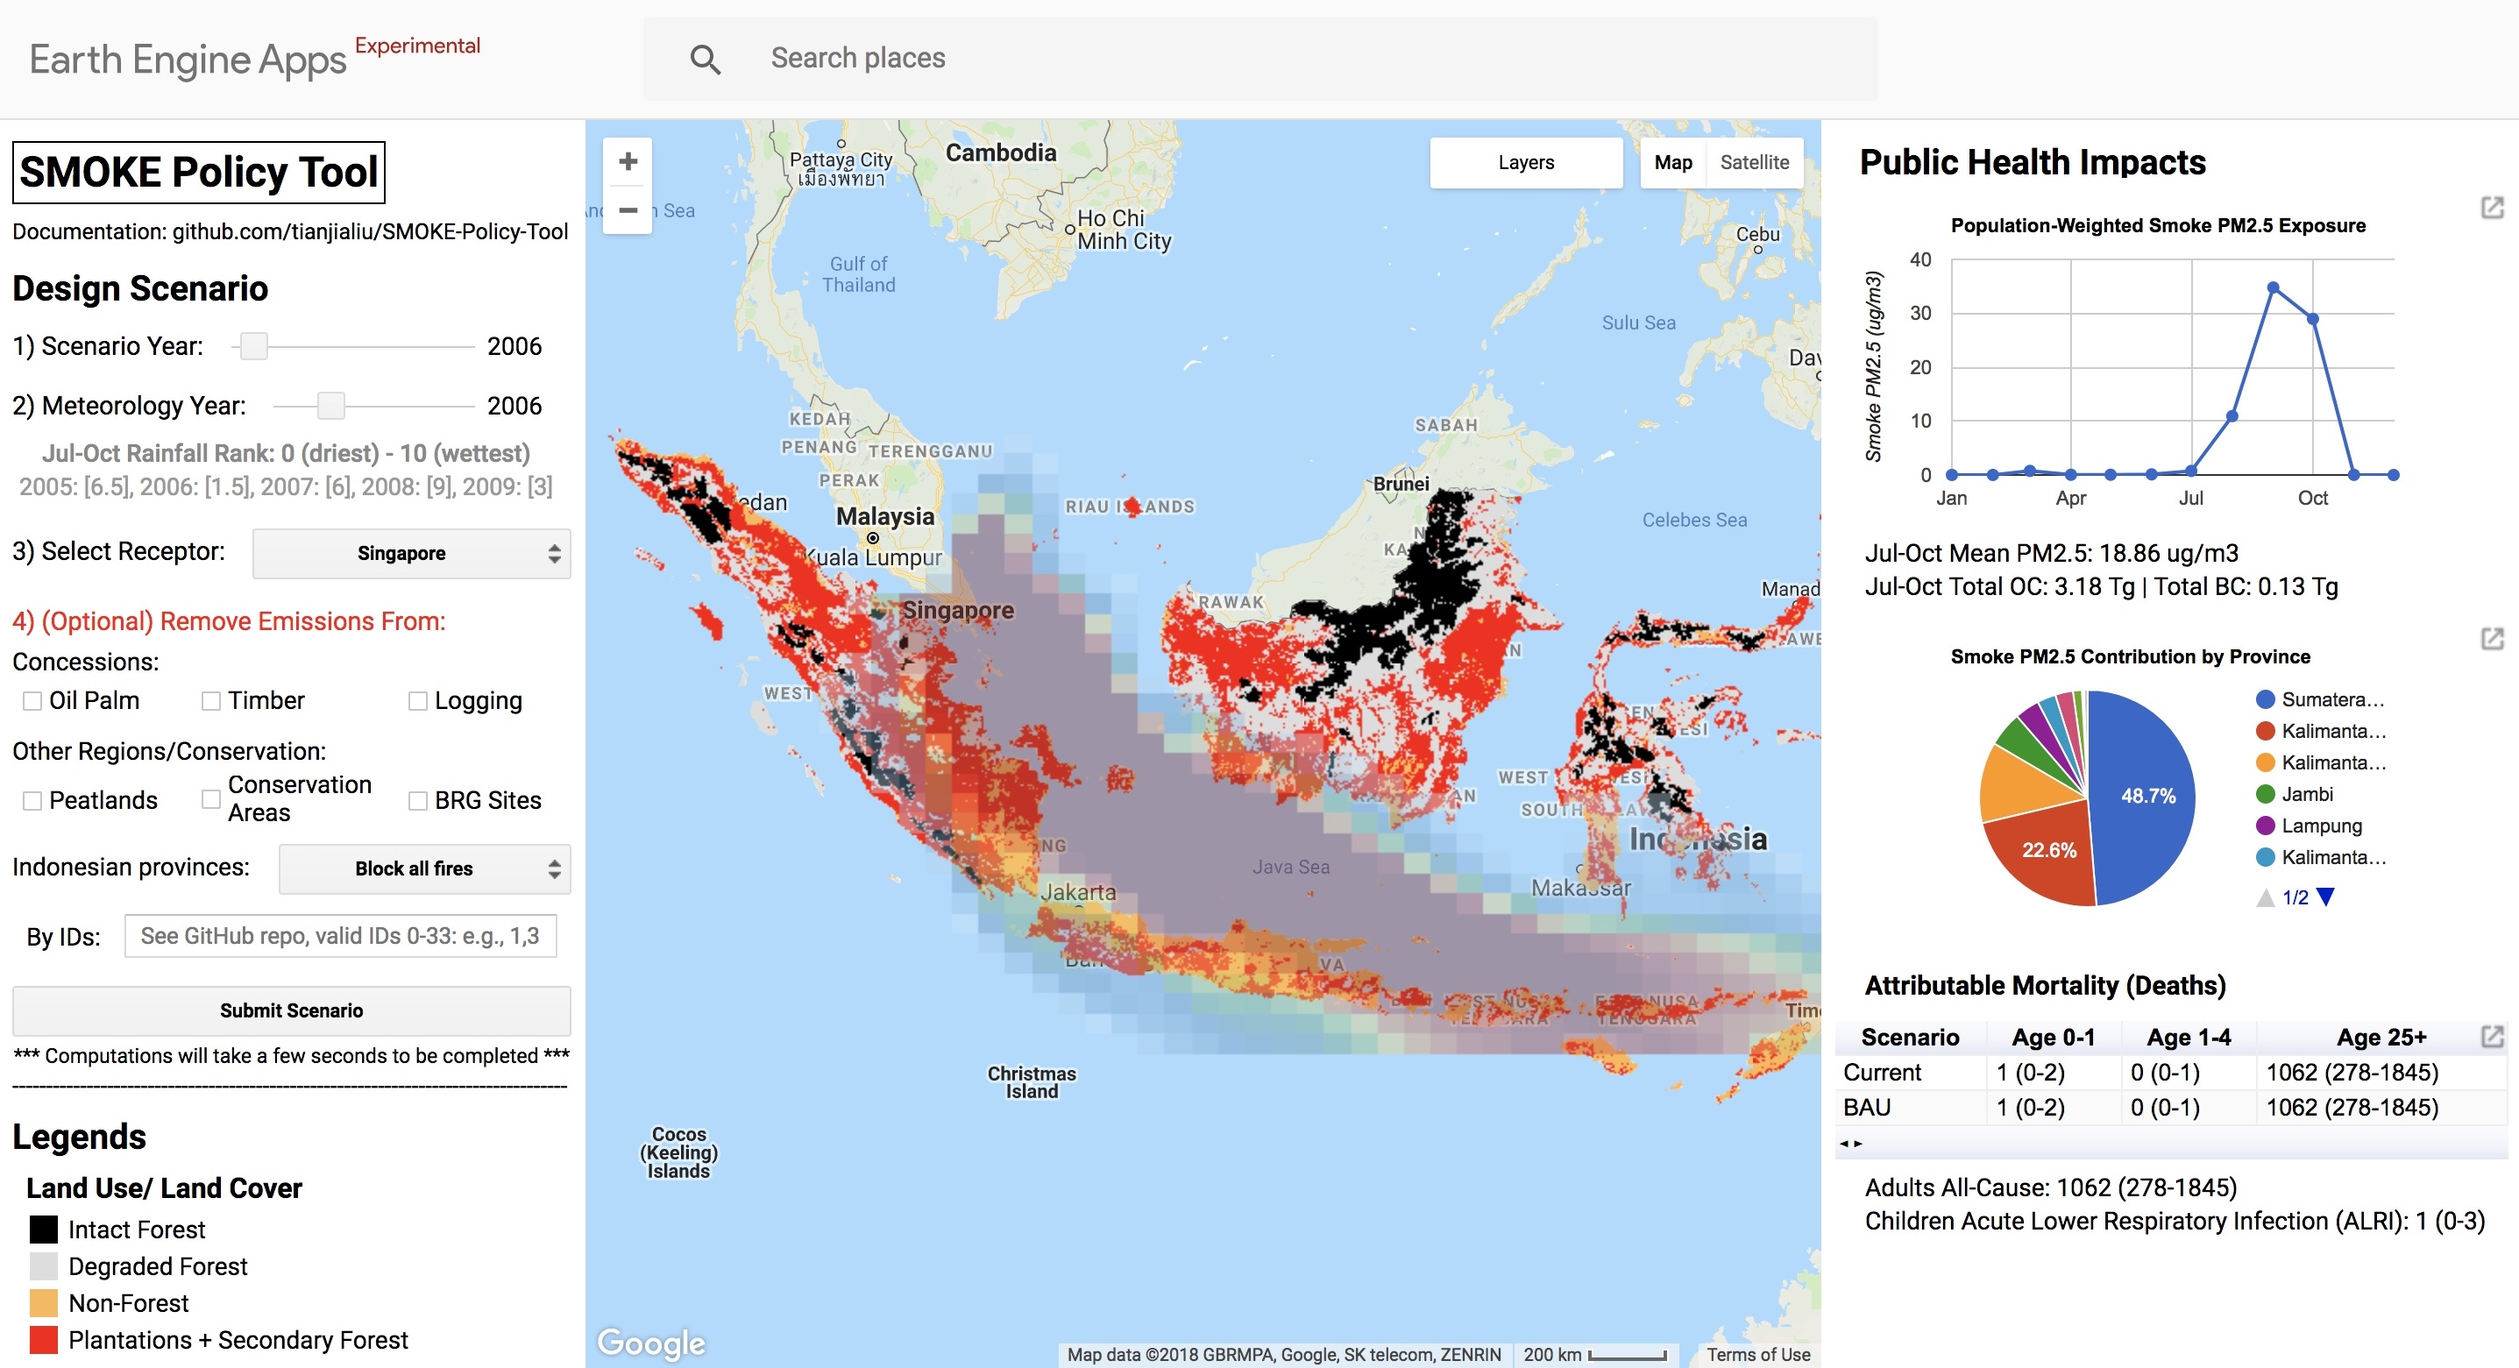
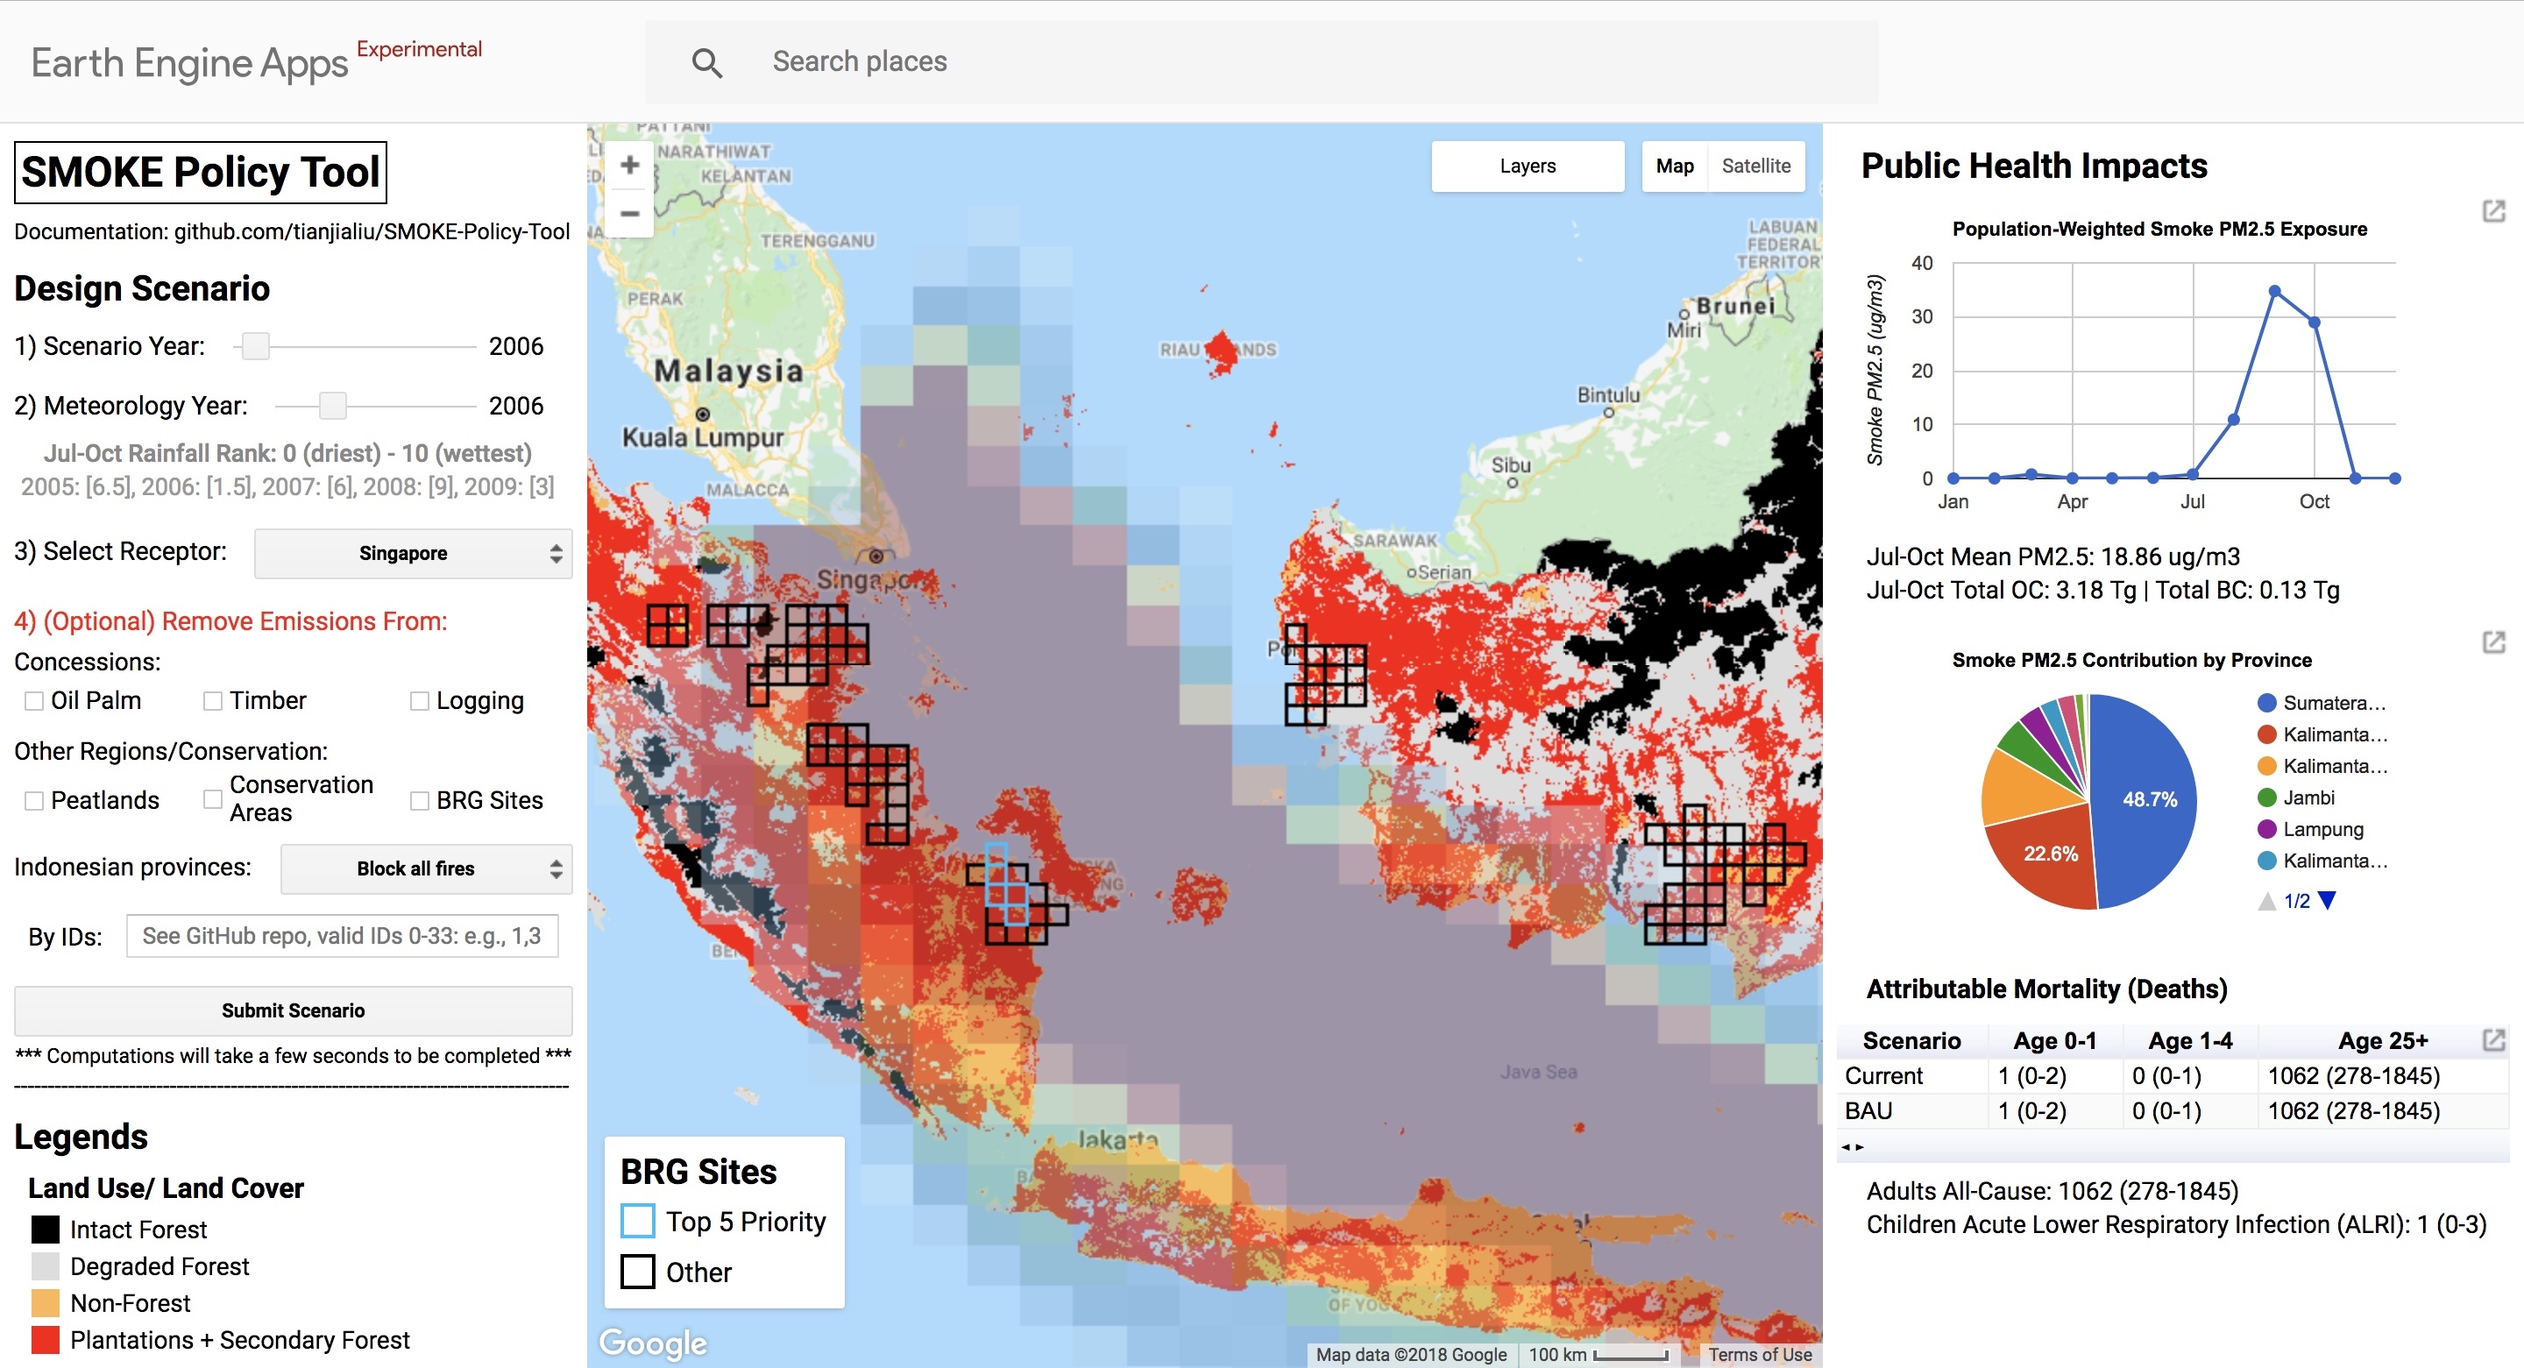
add top 5 priority BRG sites calculation, update PM color palette

diff --git a/apps/SMOKEPolicyTool.js b/apps/SMOKEPolicyTool.js
@@ -6,7 +6,7 @@
 
 // Documentation: https://github.com/tianjialiu/SMOKE-Policy-Tool
 // Author: Tianjia Liu
-// Last updated: August 19, 2018
+// Last updated: August 20, 2018
 
 // Purpose: model and project the impact of Indonesian fires
 // on public health in Equatorial Asia for 2005-2029 based on
@@ -192,8 +192,7 @@ var emiRateLULCtr = ee.ImageCollection(assetsFolder + 'Cocktail_LULC/emiRateLULC
 var areaLULCtr = ee.ImageCollection(assetsFolder + 'Cocktail_LULC/areaLULCtr_m2');
 var gcArea = ee.Image(assetsFolder + 'area_m2/GC_grid');
 var gfedArea = ee.Image(assetsFolder + 'area_m2/GFEDv4s_grid');
-var gfedGrid = ee.Image(assetsFolder + 'IDN_adm/IDN_gfedGrid');
-
+var brgGrid = ee.FeatureCollection(assetsFolder + 'IDN_conservation/BRG_sites_gfedGrid');
 var outputRegion = ee.Geometry.Rectangle([95,-11,141,6],'EPSG:4326',false);
 var adjointFolder = assetsFolder + 'GC_adjoint_sensitivities/';
 var adjointFolder_ds = assetsFolder + 'GC_adjoint_sensitivities_0p25deg/';
@@ -394,8 +393,22 @@ var getPMmap = function(inputYear,metYear,receptor,inMask) {
     .reproject({crs: crsLatLon, crsTransform: gfed_gridRes}));
 };
 
-var PMRamp = ['#FFFFFF','#F7F7F7','#D9D9D9','#BDBDBD',
-  '#969696','#636363','#252525','#000000'];
+var PMRamp = ['#FFFFFF','#FBC127','#F67D15','#D44842',
+  '#9F2963','#65146E','#280B54','#000000'];
+
+// BRG Sites: Top 5 priority grid cells for reducing emissions
+var getBRGmap = function(PMmap) {
+  var PMbrg = PMmap.reduceRegions({
+    collection: brgGrid,
+    reducer: 'max',
+    crs: crsLatLon,
+    crsTransform: gfed_gridRes
+  }).sort('max',false);
+  
+  return ee.Image().byte().rename('BRG_Sites')
+    .paint(ee.FeatureCollection(PMbrg.toList(100,5)), 0, 2)
+    .paint(ee.FeatureCollection(PMbrg.toList(5,0)), 1, 2);
+};
 
 // OC + BC Emissions, Jul-Oct average (ug/m2/s)
 var getEmissMap = function(inputYear,metYear,receptor,inMask) {
@@ -670,7 +683,7 @@ var calcAllMortality = function(PMts, receptor, scenario) {
   var age1_4 = formatCI(mortality[3][1],mortality[3][0],mortality[3][2]);
   var age25 = formatCI(mortality[4][1],mortality[4][0],mortality[4][2]);
 
-  return ee.Feature(null, {'Scenario': scenario,'Age 0-1': age0_1, 'Age 1-4': age1_4,
+  return ee.Feature(null, {'Scenario': scenario, 'Age 0-1': age0_1, 'Age 1-4': age1_4,
     'Age 0-4': age0_4, 'Age 25+': age25});
 };
 
@@ -899,6 +912,40 @@ var legendPanel = function(controlPanel) {
     mortalityColRamp, 0, 10, 'people in thousands', 18.975, 293);
 };
 
+var brgLegend = function() {
+  var colPal = ['#00BFFF', '#000000'];
+  var labels = ['Top 5 Priority', 'Other'];
+  
+  var brgLegendPanel = ui.Panel({
+    style: {
+      padding: '2px 10px 2px 9px',
+      position: 'bottom-left'
+    }
+  });
+   
+  brgLegendPanel.add(ui.Label('BRG Sites', {fontWeight: 'bold', fontSize: '20px', margin: '6px 0 6px 0'}));
+  
+  var makeRow = function(colPal, labels) {
+    var colorBox = ui.Label({
+      style: {
+        border: 'solid 2px ' + colPal,
+        padding: '8px',
+        margin: '0px 0 9px 0',
+        fontSize: '16px',
+      }
+    });
+
+    var description = ui.Label({value: labels, style: {margin: '2px 1px 4px 6px', fontSize: '15.5px'}});
+    return ui.Panel({widgets: [colorBox, description], layout: ui.Panel.Layout.Flow('horizontal')});
+  };
+  
+  for (var i = 0; i < labels.length; i++) {
+    brgLegendPanel.add(makeRow(colPal[i], labels[i]));
+  }
+  
+  return brgLegendPanel;
+};
+
 // -----------
 // Plot Panel
 // -----------
@@ -983,7 +1030,7 @@ submitButton.onClick(function() {
   var PMExposureMap = getPMmap(inputYear,metYear,receptor,inMask);
   var emissMap = getEmissMap(inputYear,metYear,receptor,inMask);
   
-  map.clear(); map.setCenter(110,-2,5);
+  map.clear(); map.setCenter(108,-1,6);
   map.addLayer(lulcMapTS1.selfMask(),lulc_pal,'LULC Classification ' + lulcMapTS1.get('timestep').getInfo());
   map.addLayer(lulcMapTS2.selfMask(),lulc_pal,'LULC Classification ' + lulcMapTS2.get('timestep').getInfo(), false);
   map.addLayer(stableTrans.selfMask(),lulcTrans_pal,'LULC Stable/Transitions', false);
@@ -999,6 +1046,8 @@ submitButton.onClick(function() {
     {palette: mortalityColRamp, max: 10},'Baseline Mortality 2005', false);
   map.addLayer(inMask.mean(),{palette: ['#000000','#FFFFFF'],
     min: 0, max: 1, opacity: 0.4},'Design Scenario Mask', false);
+  map.addLayer(getBRGmap(PMExposureMap), {palette: '000000,00BFFF', max: 1}, 'BRG Sites');
+  map.add(brgLegend());
   map.setControlVisibility({fullscreenControl: false});
 
   // Display Charts:

diff --git a/gee_public/Modules/plotParams.js b/gee_public/Modules/plotParams.js
@@ -26,7 +26,7 @@ exports.yearPanel = function() {
     {margin: '1px 0px 0px 25px', color: '#888', fontSize: '13.8px', fontWeight:'410'});
   var metYearRanking = ui.Label('2005: [6.5], 2006: [1.5], 2007: [6], 2008: [9], 2009: [3]',
     {margin: '3px 0px 8px 12px', color: '#999', fontSize: '13.5px'});
-    
+  
   return ui.Panel([
       policyToolLabel, githubRepoLabel, inputYearSectionLabel,
       ui.Panel([inputYearLabel, inputYearSlider], ui.Panel.Layout.Flow('horizontal'), {stretch: 'horizontal'}), //
@@ -207,7 +207,7 @@ exports.legendPanel = function(controlPanel) {
     smokeHealth.mortalityColRamp, 0, 10, 'people in thousands', 18.975, 293);
 };
 
-exports.discreteLegendMap = function(title, labels, colPal) {
+exports.brgLegend = function() {
   var discreteLegendPanel = ui.Panel({
     style: {
       padding: '0 9px 2px 9px',
@@ -216,6 +216,71 @@ exports.discreteLegendMap = function(title, labels, colPal) {
   });
    
   var legendTitle = ui.Label(title, {fontWeight: 'bold', fontSize: '18px', margin: '6px 0 4px 0'});
+  discreteLegendPanel.add(legendTitle);
+  
+  var makeRow = function(colPal, labels) {
+    var colorBox = ui.Label({
+      style: {
+        border: '1px solid ' + colPal,
+        padding: '8px',
+        margin: '0 0 6px 0',
+        fontSize: '14px',
+      }
+    });
+
+    var description = ui.Label({value: labels, style: {margin: '0 0 4px 6px', fontSize: '13.5px'}});
+    return ui.Panel({widgets: [colorBox, description], layout: ui.Panel.Layout.Flow('horizontal')});
+  };
+  
+  for (var i = 0; i < labels.length; i++) {
+    discreteLegendPanel.add(makeRow(colPal[i], labels[i]));
+  }
+  return discreteLegendPanel;
+};
+
+exports.brgLegend = function() {
+  var colPal = ['#00BFFF', '#000000'];
+  var labels = ['Top 5 Priority', 'Other'];
+  
+  var brgLegendPanel = ui.Panel({
+    style: {
+      padding: '2px 10px 2px 9px',
+      position: 'bottom-left'
+    }
+  });
+   
+  brgLegendPanel.add(ui.Label('BRG Sites', {fontWeight: 'bold', fontSize: '20px', margin: '6px 0 6px 0'}));
+  
+  var makeRow = function(colPal, labels) {
+    var colorBox = ui.Label({
+      style: {
+        border: 'solid 2px ' + colPal,
+        padding: '8px',
+        margin: '0px 0 9px 0',
+        fontSize: '16px',
+      }
+    });
+
+    var description = ui.Label({value: labels, style: {margin: '2px 1px 4px 6px', fontSize: '15.5px'}});
+    return ui.Panel({widgets: [colorBox, description], layout: ui.Panel.Layout.Flow('horizontal')});
+  };
+  
+  for (var i = 0; i < labels.length; i++) {
+    brgLegendPanel.add(makeRow(colPal[i], labels[i]));
+  }
+  
+  return brgLegendPanel;
+};
+
+exports.discreteLegendMap = function(title, labels, colPal) {
+  var discreteLegendPanel = ui.Panel({
+    style: {
+      padding: '0 9px 2px 9px',
+      position: 'bottom-left'
+    }
+  });
+   
+  var legendTitle = ui.Label(title, {fontWeight: 'bold', fontSize: '18.5px', margin: '6px 0 4px 0'});
   discreteLegendPanel.add(legendTitle);
   
   var makeRow = function(colPal, labels) {

diff --git a/gee_public/UI_SMOKEPolicyTool.js b/gee_public/UI_SMOKEPolicyTool.js
@@ -6,7 +6,7 @@
 /*
 // Documentation: https://github.com/tianjialiu/SMOKE-Policy-Tool
 // Author: Tianjia Liu
-// Last updated: August 19, 2018
+// Last updated: August 20, 2018
 
 // Purpose: model and project the impact of Indonesian fires
 // on public health in Equatorial Asia for 2005-2029 based on
@@ -33,7 +33,7 @@
 // 7. Indonesian Provinces (see console for list of ID codes with
 // province names after UI loads)
 
-// ||Step 5|| Submit Scenario: the script will freeze for ~5-10 seconds
+// ||Step 5|| Submit Scenario: the script will freeze for ~4-7 seconds
 // as Google Earth Engine makes the necessary computations:
 // map layers will display in the center panel;
 // legends will display below 'Submit Scenario' in the left panel;
@@ -161,7 +161,7 @@ submitButton.onClick(function() {
   var PMExposureMap = smokePM.getPMmap(inputYear,metYear,receptor,inMask);
   var emissMap = smokePM.getEmissMap(inputYear,metYear,receptor,inMask);
   
-  map.clear(); map.setCenter(110,-2,5);
+  map.clear(); map.setCenter(108,-1,6);
   map.addLayer(lulcMapTS1.selfMask(),smokeLULC.lulc_pal,'LULC Classification ' + lulcMapTS1.get('timestep').getInfo());
   map.addLayer(lulcMapTS2.selfMask(),smokeLULC.lulc_pal,'LULC Classification ' + lulcMapTS2.get('timestep').getInfo(), false);
   map.addLayer(stableTrans.selfMask(),smokeLULC.lulcTrans_pal,'LULC Stable/Transitions', false);
@@ -177,8 +177,10 @@ submitButton.onClick(function() {
     {palette: smokeHealth.mortalityColRamp, max: 10},'Baseline Mortality 2005', false);
   map.addLayer(inMask.mean(),{palette: ['#000000','#FFFFFF'],
     min: 0, max: 1, opacity: 0.4},'Design Scenario Mask', false);
+  map.addLayer(smokePM.getBRGmap(PMExposureMap), {palette: '000000,00BFFF', max: 1}, 'BRG Sites');
+  map.add(plotParams.brgLegend());
   map.setControlVisibility({fullscreenControl: false});
-
+  
   // Display Charts:
   var PMts = smokePM.getPM(inputYear,metYear,receptor,inMask);
   var PMts_BAU = smokePM.getPM(inputYear,metYear,receptor,bauMask);

diff --git a/gee_public/Modules/smokePM.js b/gee_public/Modules/smokePM.js
@@ -4,7 +4,7 @@ var IDNprovS = ee.FeatureCollection("projects/IndonesiaPolicyTool/IDN_adm/IDN_ad
     areaLULCtr = ee.ImageCollection("projects/IndonesiaPolicyTool/Cocktail_LULC/areaLULCtr_m2"),
     gcArea = ee.Image("projects/IndonesiaPolicyTool/area_m2/GC_grid"),
     gfedArea = ee.Image("projects/IndonesiaPolicyTool/area_m2/GFEDv4s_grid"),
-    gfedGrid = ee.FeatureCollection("projects/IndonesiaPolicyTool/IDN_adm/IDN_gfedGrid");
+    brgGrid = ee.FeatureCollection("projects/IndonesiaPolicyTool/IDN_conservation/BRG_sites_gfedGrid");
 /***** End of imports. If edited, may not auto-convert in the playground. *****/
 // ===============================
 // Calculate OC+BC Emissions and
@@ -215,8 +215,22 @@ exports.getPMmap = function(inputYear,metYear,receptor,inMask) {
     .reproject({crs: crsLatLon, crsTransform: gfed_gridRes}));
 };
 
-exports.PMRamp = ['#FFFFFF','#F7F7F7','#D9D9D9','#BDBDBD',
-  '#969696','#636363','#252525','#000000'];
+exports.PMRamp = ['#FFFFFF','#FBC127','#F67D15','#D44842',
+  '#9F2963','#65146E','#280B54','#000000'];
+
+// BRG Sites: Top 5 priority grid cells for reducing emissions
+exports.getBRGmap = function(PMmap) {
+  var PMbrg = PMmap.reduceRegions({
+    collection: brgGrid,
+    reducer: 'max',
+    crs: crsLatLon,
+    crsTransform: gfed_gridRes
+  }).sort('max',false);
+  
+  return ee.Image().byte().rename('BRG_Sites')
+    .paint(ee.FeatureCollection(PMbrg.toList(100,5)), 0, 2)
+    .paint(ee.FeatureCollection(PMbrg.toList(5,0)), 1, 2);
+};
 
 // OC + BC Emissions, Jul-Oct average (μg m-2 s-1)
 exports.getEmissMap = function(inputYear,metYear,receptor,inMask) {
@@ -276,7 +290,7 @@ exports.getPMContrByProvChart = function(PMmap,plotPanel) {
     .setChartType('PieChart')
     .setOptions({
       title: 'Smoke PM2.5 Contribution by Province',
-      legend: 'NAME_1'
+      legend: 'NAME_1',
     });
   plotPanel.add(PMProvChart);
 };

diff --git a/gee_public/Modules/smokeHealth.js b/gee_public/Modules/smokeHealth.js
@@ -158,7 +158,7 @@ var calcAllMortality = function(PMts, receptor, scenario) {
   var age1_4 = formatCI(mortality[3][1],mortality[3][0],mortality[3][2]);
   var age25 = formatCI(mortality[4][1],mortality[4][0],mortality[4][2]);
 
-  return ee.Feature(null, {'Scenario': scenario,'Age 0-1': age0_1, 'Age 1-4': age1_4,
+  return ee.Feature(null, {'Scenario': scenario, 'Age 0-1': age0_1, 'Age 1-4': age1_4,
     'Age 0-4': age0_4, 'Age 25+': age25});
 };
 

diff --git a/README.md b/README.md
@@ -74,7 +74,7 @@ In custom scenarios, fire activity can be blocked in a combination of concession
 |   |   |   |   | 33 | Yogyakarta |
 
 ### Public Health Impacts
-After submitting a scenario, please wait a few seconds (~4-7 seconds). Legends will display in the left panel below the 'Submit Scenario' button, and map layers will display in the middle panel. Three charts will be generated and displayed in the right panel: 1. Timeseries of smoke PM<sub>2.5</sub> exposure at the receptor, 2. Pie chart of smoke PM<sub>2.5</sub> contribution by Indonesia province, and 3. Table of attributable mortality for the current and business-as-usual (BAU) scenarios. Map layers can be turned on and off from the 'Layers' dropdown list; currently, if you switch to 'Satellite' view, you must toggle the map layers off and on again to view them.
+After submitting a scenario, please wait a few seconds (~4-7 seconds). Legends will display in the left panel below the 'Submit Scenario' button, and map layers will display in the middle panel. Three charts will be generated and displayed in the right panel: 1. Timeseries of smoke PM<sub>2.5</sub> exposure at the receptor, 2. Pie chart of smoke PM<sub>2.5</sub> contribution by Indonesia province, and 3. Table of attributable mortality for the current and business-as-usual (BAU) scenarios. The tool also calculates the top 5 priority grid cells with BRG sites to reduce emissions; emissions in these grid cells contribute the highest fraction of smoke exposure to the receptor. Map layers can be turned on and off from the 'Layers' dropdown list; currently, if you switch to 'Satellite' view, you must toggle the map layers off and on again to view them.
 <br><br>
 
 ## Google Earth Engine Code Editor GUI
